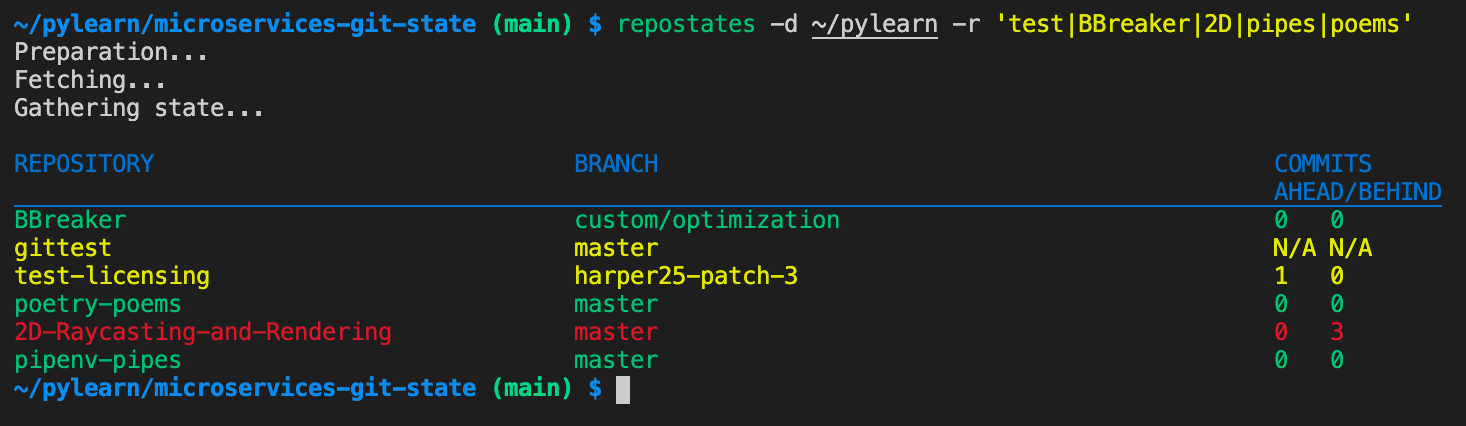
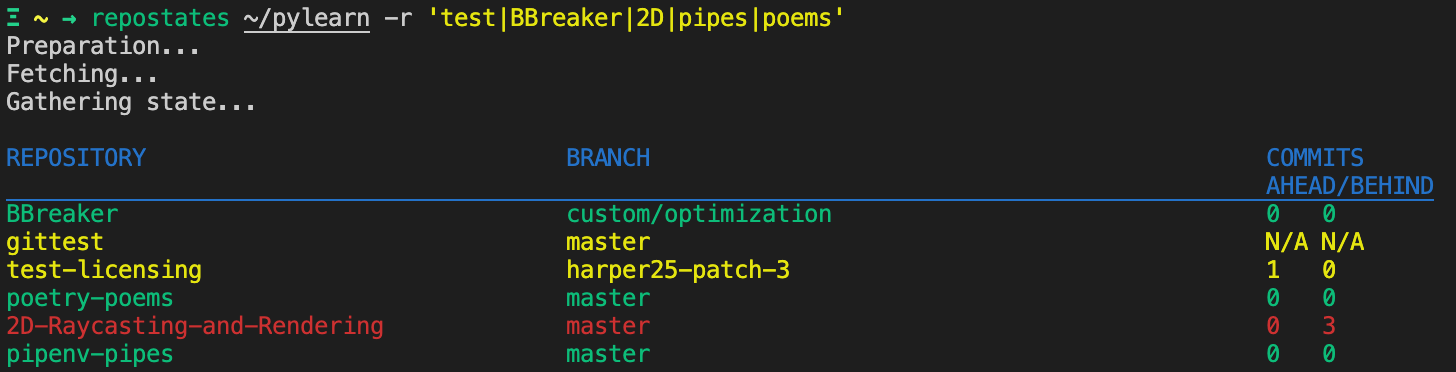
Make directory a positional argument

diff --git a/show.py b/show.py
@@ -31,8 +31,8 @@ def main():
 def get_cli_arguments():
     parser = argparse.ArgumentParser()
     parser.add_argument(
-        "-d",
-        "--dir",
+        "dir",
+        nargs="?",
         help="directory with your git repositories, defaults to the current directory",
         default=os.getcwd(),
     )

diff --git a/README.md b/README.md
@@ -26,13 +26,13 @@ Then, the best option to run the tool is to clone the repository and:
 - or create a suitable alias in `.zshrc` or `.bash_profile`, e.g.:
 
     ```sh
-    alias repostates="python /<path-to-microservices-git-state>/show.py"
+    alias repostates="python3 /<path-to-microservices-git-state>/show.py"
     ```
 
     It is possible to append the new alias to your shell init script by running:
 
     ```sh
-    echo 'alias repostates="python /<path-to-microservices-git-state>/show.py"' >> ~/.zshrc
+    echo 'alias repostates="python3 /<path-to-microservices-git-state>/show.py"' >> ~/.zshrc
     ```
 
     And then run:
@@ -40,18 +40,15 @@ Then, the best option to run the tool is to clone the repository and:
     repostates --help
     ```
 
-    *Please remember to change `python` to `python3` on Linux machines.*
-
-
 ## Usage
 
 Two cli parameters are available in the tool:
 
-- `-d DIR, --dir DIR` - directory with your git repositories to check, defaults to the current directory, e.g.:
+- `dir` - positional argument, directory with your git repositories to check (defaults to the current directory):
     ```sh
-    repostates -d /Users/me/projects
+    repostates /Users/me/projects
     ```
-- `-r REG, --reg REG` - regex for filtering repositories to show (in case you would like to check only a subset of repositories), e.g.:
+- `-r REG, --reg REG` - optional regex for filtering repositories to show (in case you would like to check only a subset of repositories):
     ```sh
     repostates -r '\-api-'
     repostates -r '^((?!test).)*$'
